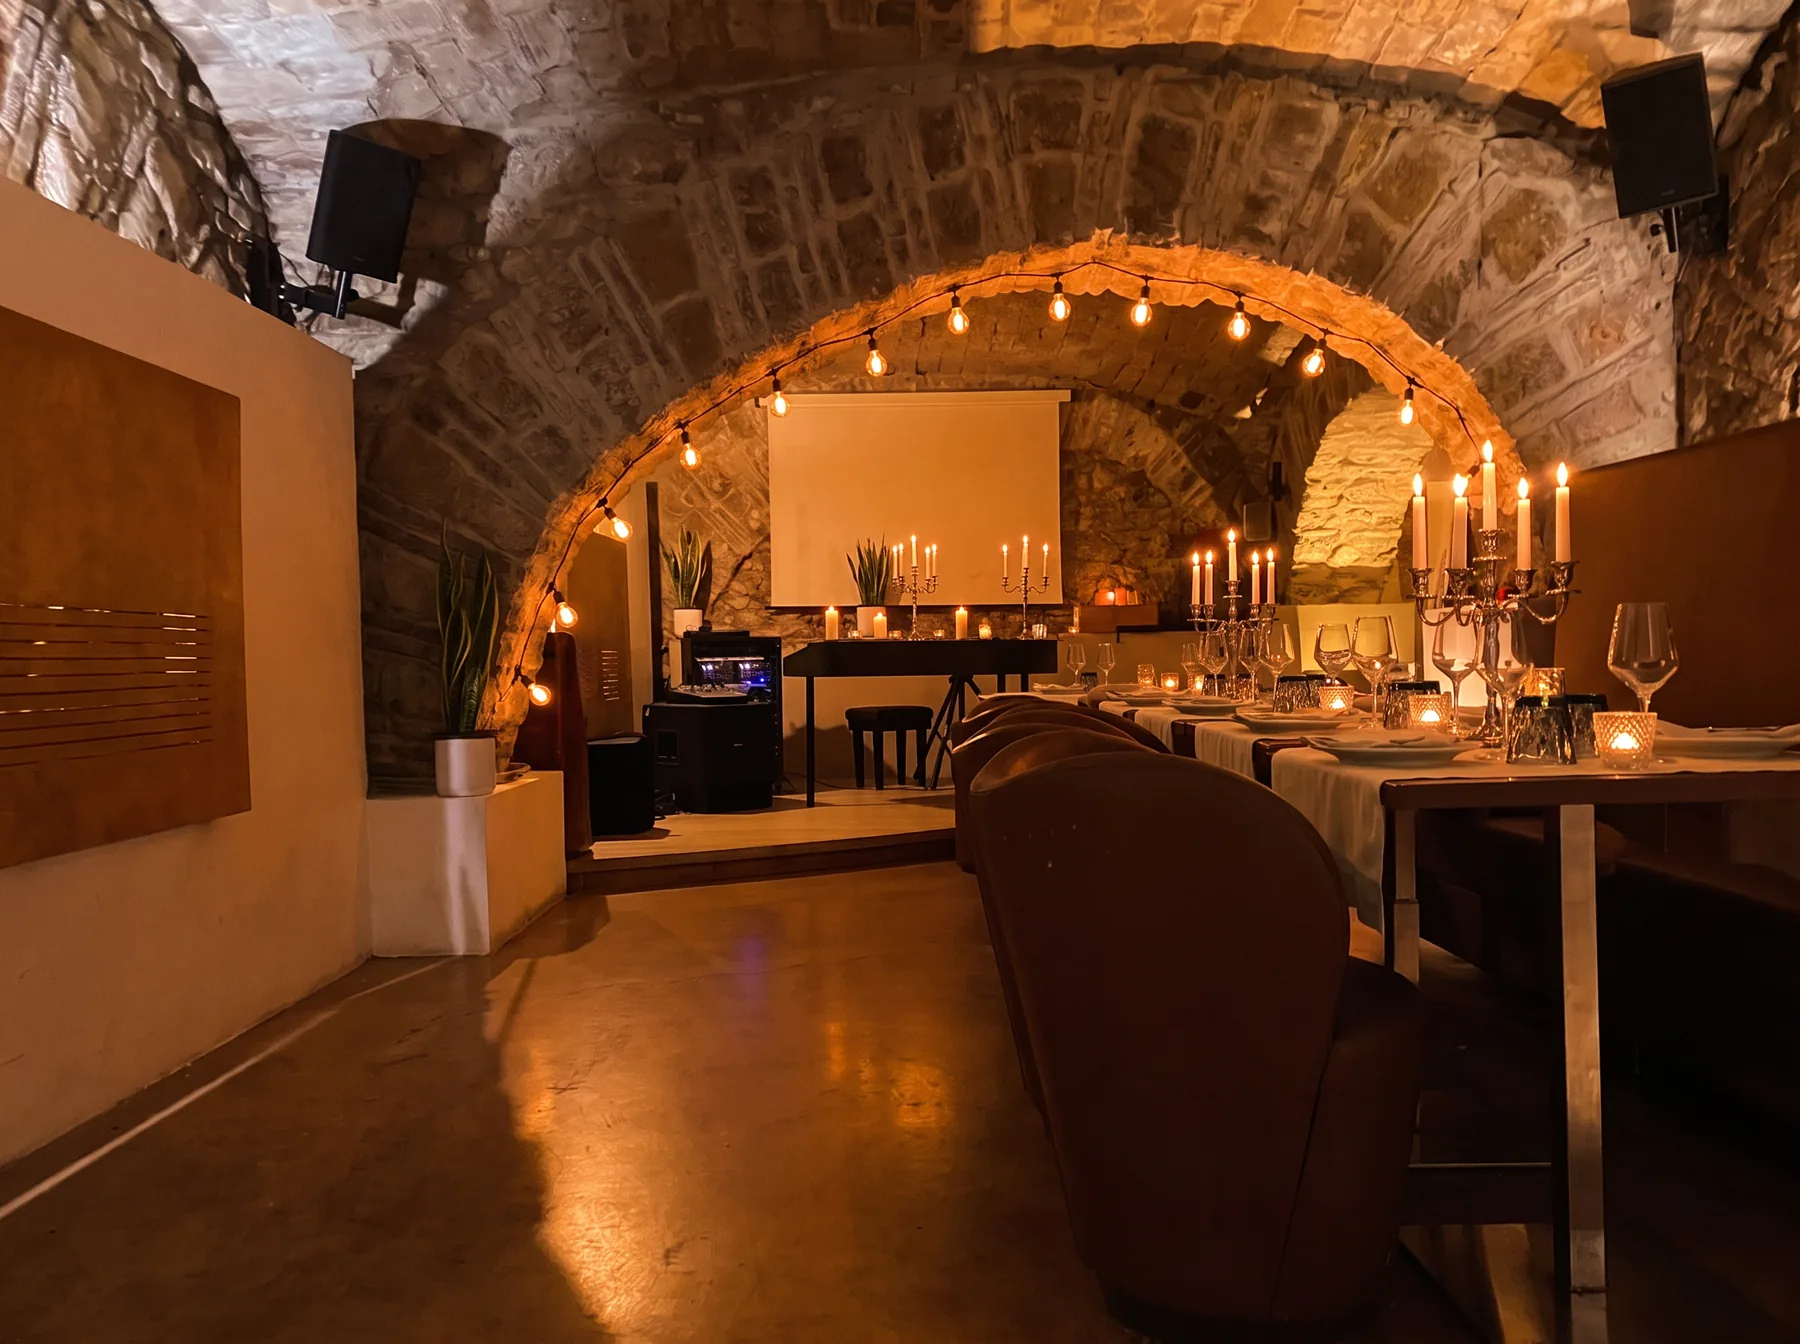
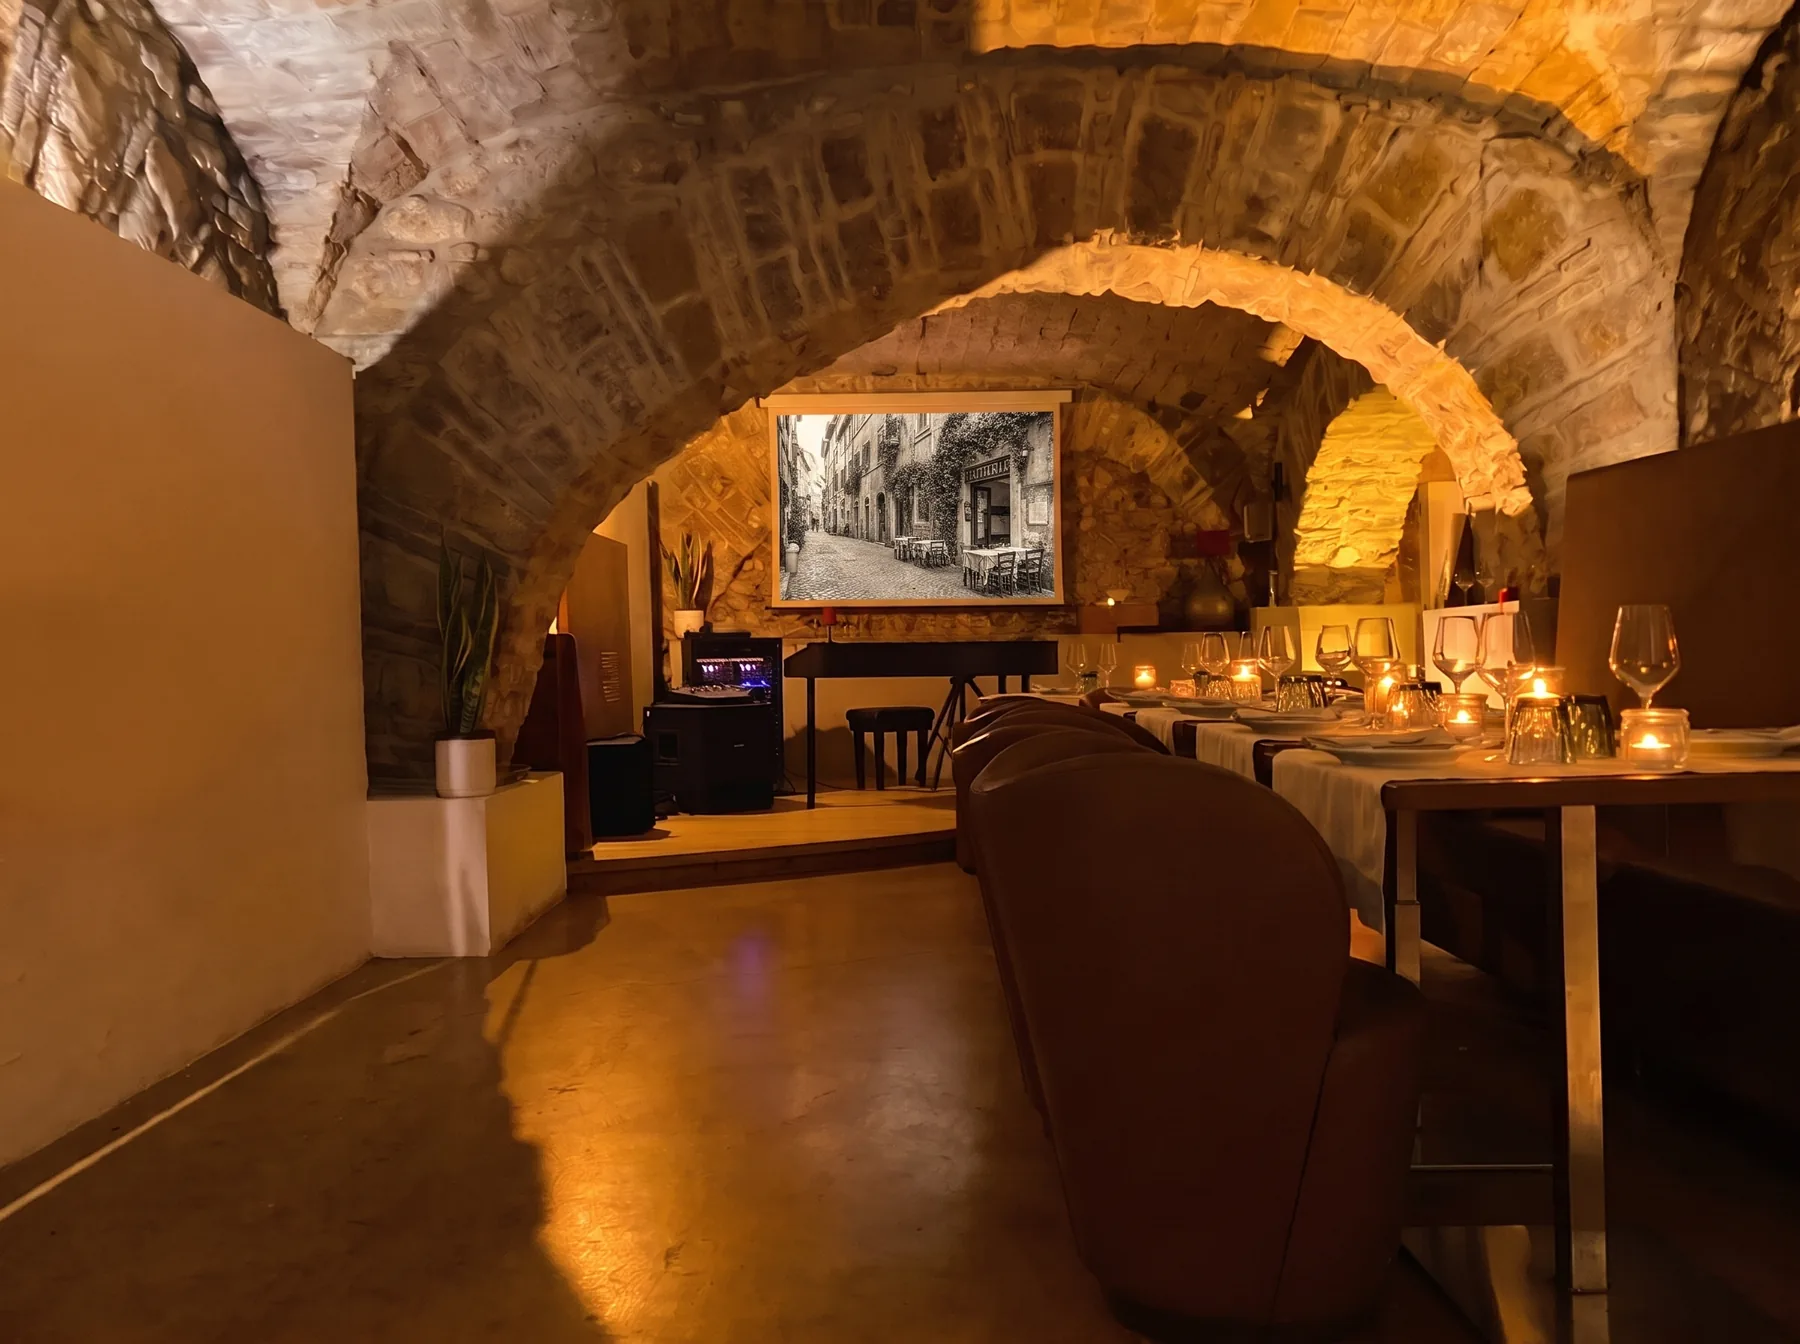
Copertina Cantina piu sobria

diff --git a/cantina.html b/cantina.html
@@ -42,7 +42,7 @@
       <ul class="usi"><li>Eventi</li><li>Cene private</li><li>Riunioni aziendali</li><li>Corsi</li><li>Partite in diretta</li></ul>
       <a class="btn btn-ocra" href="#richiesta">Inviate la richiesta</a>
     </div>
-    <div class="appare cop-cantina"><figure class="foto f-arco su-blu"><img src="assets/img/foto/cantina-1.webp" alt="la Cantina degli Artisti a lume di candela, sotto gli archi in pietra, con il palco pronto per una serata" style="object-position:48% 50%" loading="lazy"></figure></div>
+    <div class="appare cop-cantina"><figure class="foto f-arco su-blu"><img src="assets/img/foto/cantina-1.webp" alt="la Cantina degli Artisti sotto gli archi in pietra, con la tavola apparecchiata e il palco pronto per una serata" style="object-position:48% 50%" loading="lazy"></figure></div>
   </div>
 </section>
 <section class="sez galleria-cantina" aria-label="Foto della Cantina">

diff --git a/en/cantina.html b/en/cantina.html
@@ -42,7 +42,7 @@
       <ul class="usi"><li>Events</li><li>Private dinners</li><li>Business meetings</li><li>Classes</li><li>Live matches</li></ul>
       <a class="btn btn-ocra" href="#richiesta">Send request</a>
     </div>
-    <div class="appare cop-cantina"><figure class="foto f-arco su-blu"><img src="../assets/img/foto/cantina-1.webp" alt="the Cantina degli Artisti by candlelight under the stone arches, with the stage ready for an evening" style="object-position:48% 50%" loading="lazy"></figure></div>
+    <div class="appare cop-cantina"><figure class="foto f-arco su-blu"><img src="../assets/img/foto/cantina-1.webp" alt="the Cantina degli Artisti under the stone arches, with the table set and the stage ready for an evening" style="object-position:48% 50%" loading="lazy"></figure></div>
   </div>
 </section>
 <section class="sez galleria-cantina" aria-label="Photos of the Cantina">

diff --git a/index.html b/index.html
@@ -114,7 +114,7 @@
 
 <section class="sez cantina-sez" aria-labelledby="t-cantina">
   <div class="wrap">
-    <div class="appare"><figure class="foto f-arco su-blu"><img src="assets/img/foto/cantina-1.webp" alt="la Cantina degli Artisti a lume di candela, sotto gli archi in pietra, con il palco pronto per una serata" style="object-position:48% 50%" loading="lazy"></figure></div>
+    <div class="appare"><figure class="foto f-arco su-blu"><img src="assets/img/foto/cantina-1.webp" alt="la Cantina degli Artisti sotto gli archi in pietra, con la tavola apparecchiata e il palco pronto per una serata" style="object-position:48% 50%" loading="lazy"></figure></div>
     <div class="appare">
       <h2 class="titolo-sez" id="t-cantina">La Cantina degli Artisti</h2>
       <div class="quaranta"><b>40</b><span>persone</span></div>

diff --git a/en/index.html b/en/index.html
@@ -114,7 +114,7 @@
 
 <section class="sez cantina-sez" aria-labelledby="t-cantina">
   <div class="wrap">
-    <div class="appare"><figure class="foto f-arco su-blu"><img src="../assets/img/foto/cantina-1.webp" alt="the Cantina degli Artisti by candlelight under the stone arches, with the stage ready for an evening" style="object-position:48% 50%" loading="lazy"></figure></div>
+    <div class="appare"><figure class="foto f-arco su-blu"><img src="../assets/img/foto/cantina-1.webp" alt="the Cantina degli Artisti under the stone arches, with the table set and the stage ready for an evening" style="object-position:48% 50%" loading="lazy"></figure></div>
     <div class="appare">
       <h2 class="titolo-sez" id="t-cantina">The Cantina degli Artisti</h2>
       <div class="quaranta"><b>40</b><span>guests</span></div>
